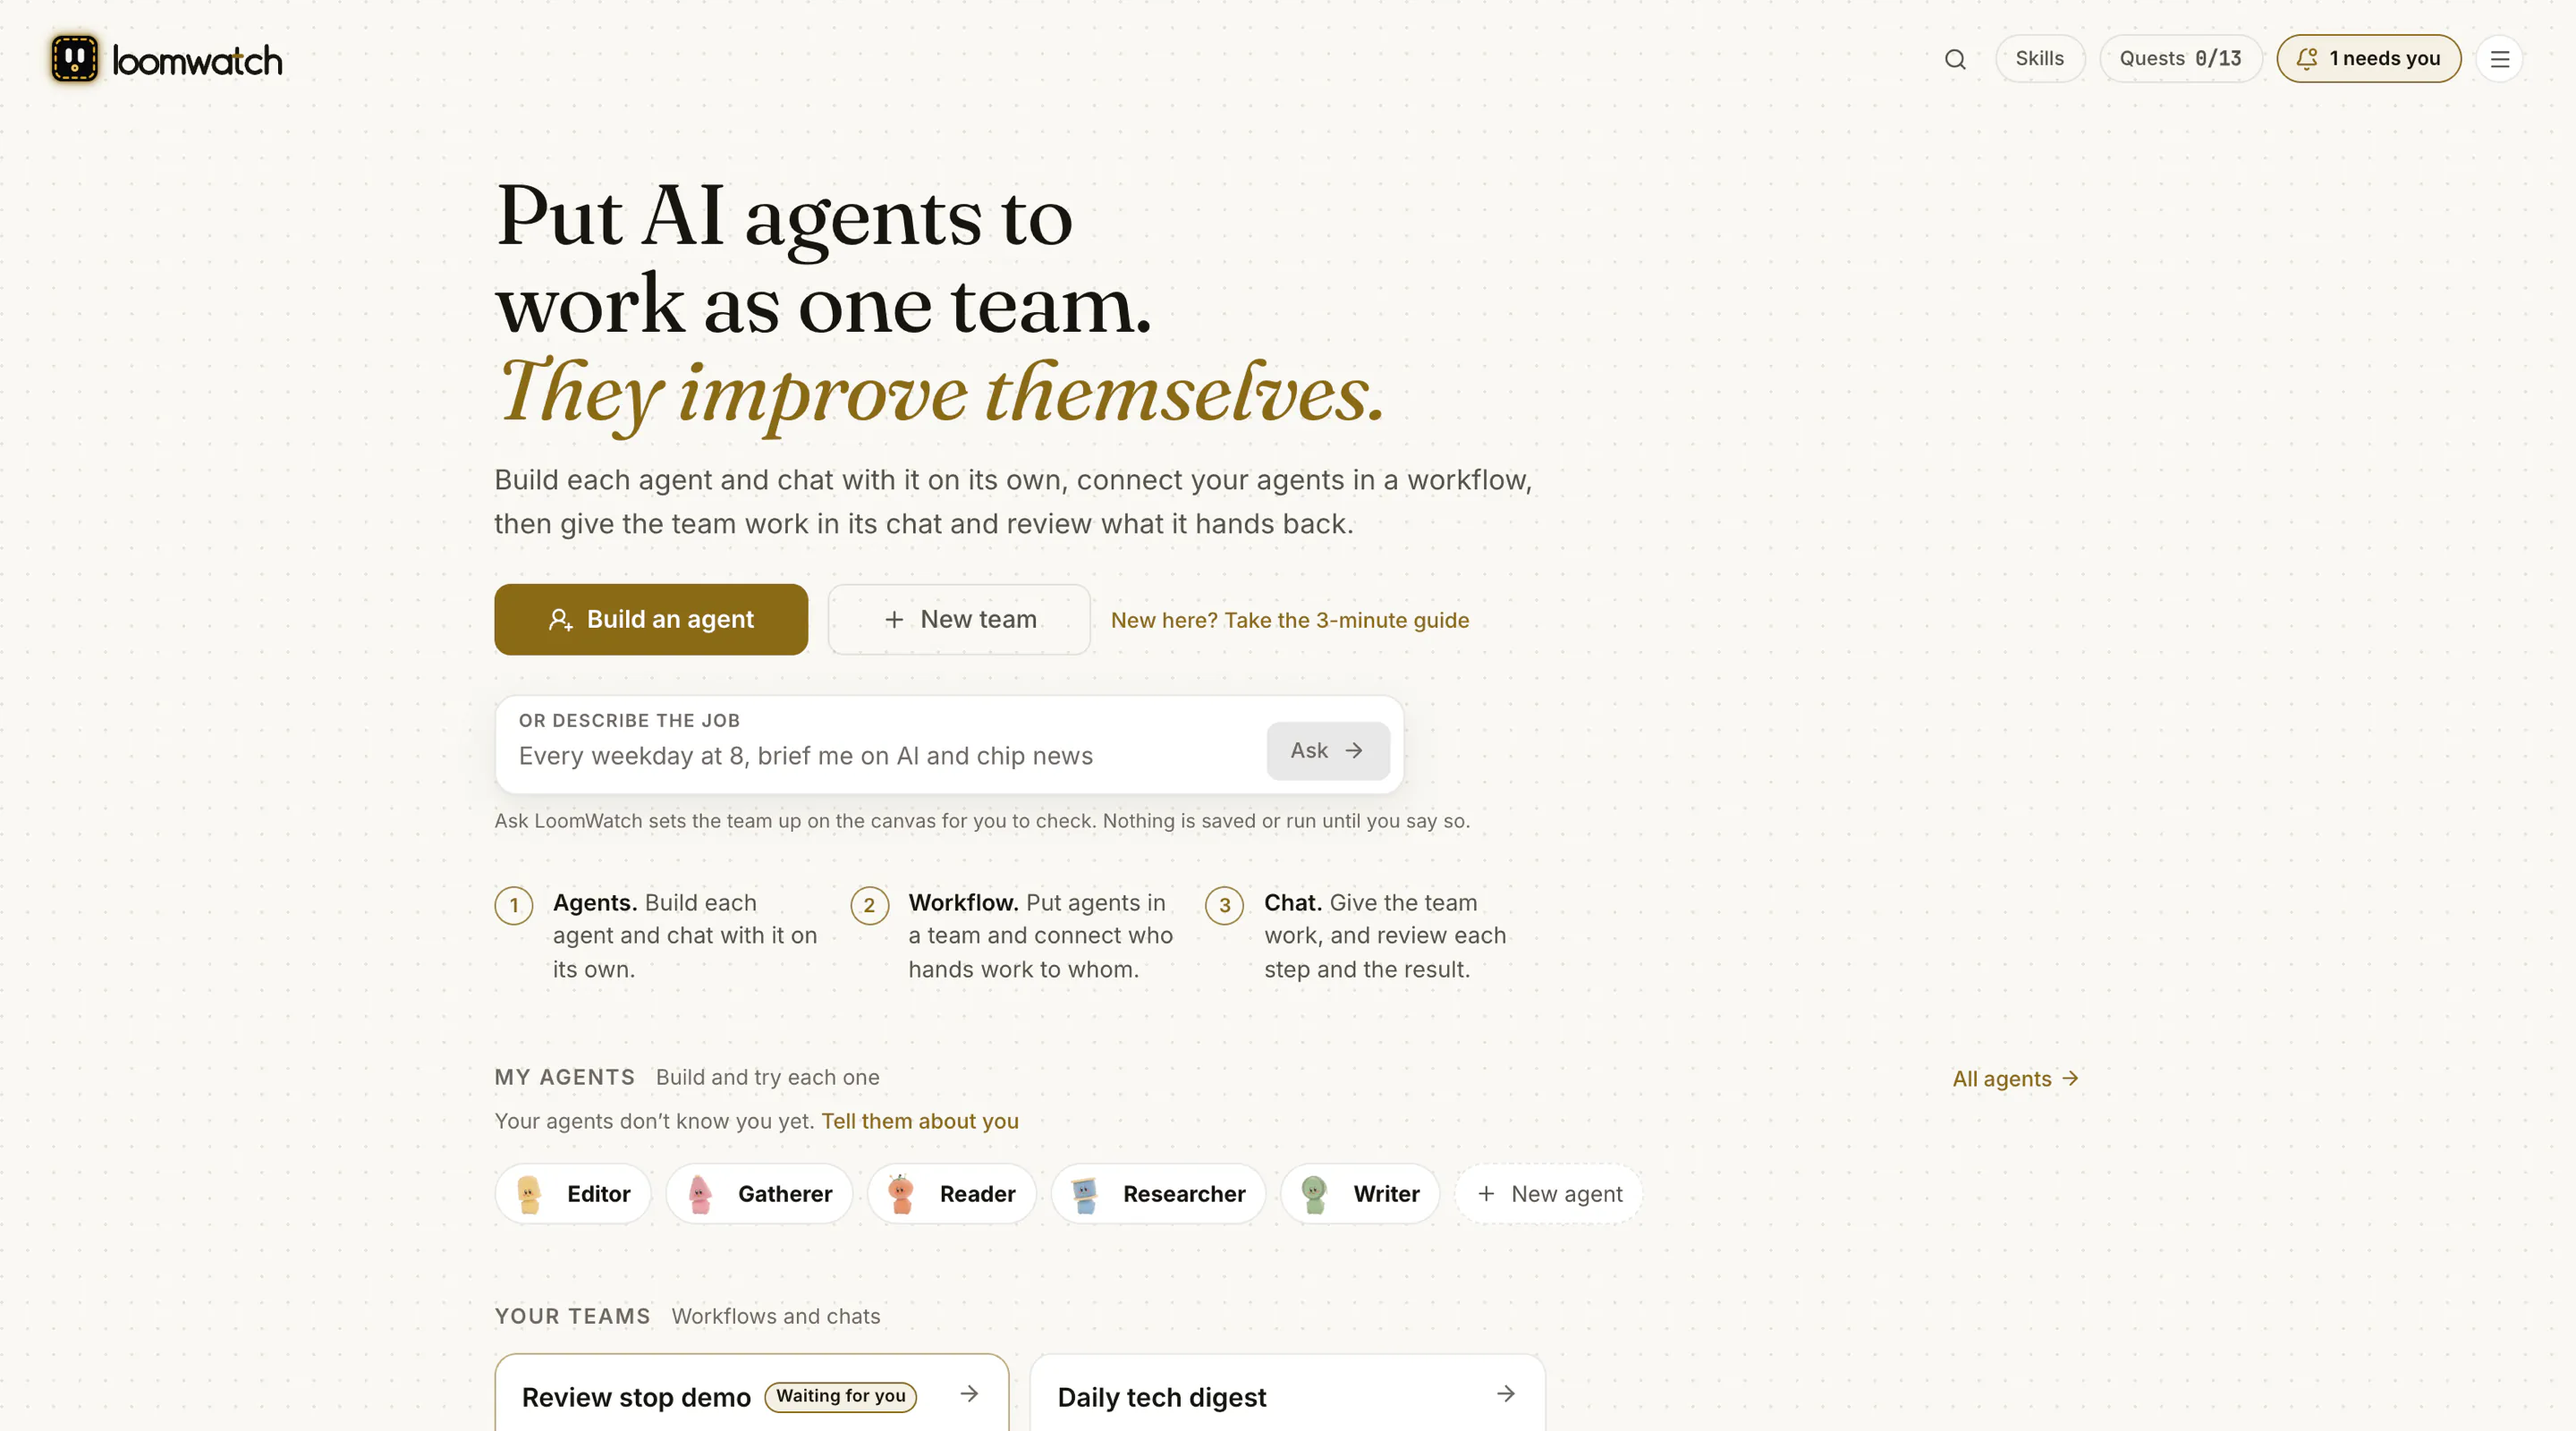
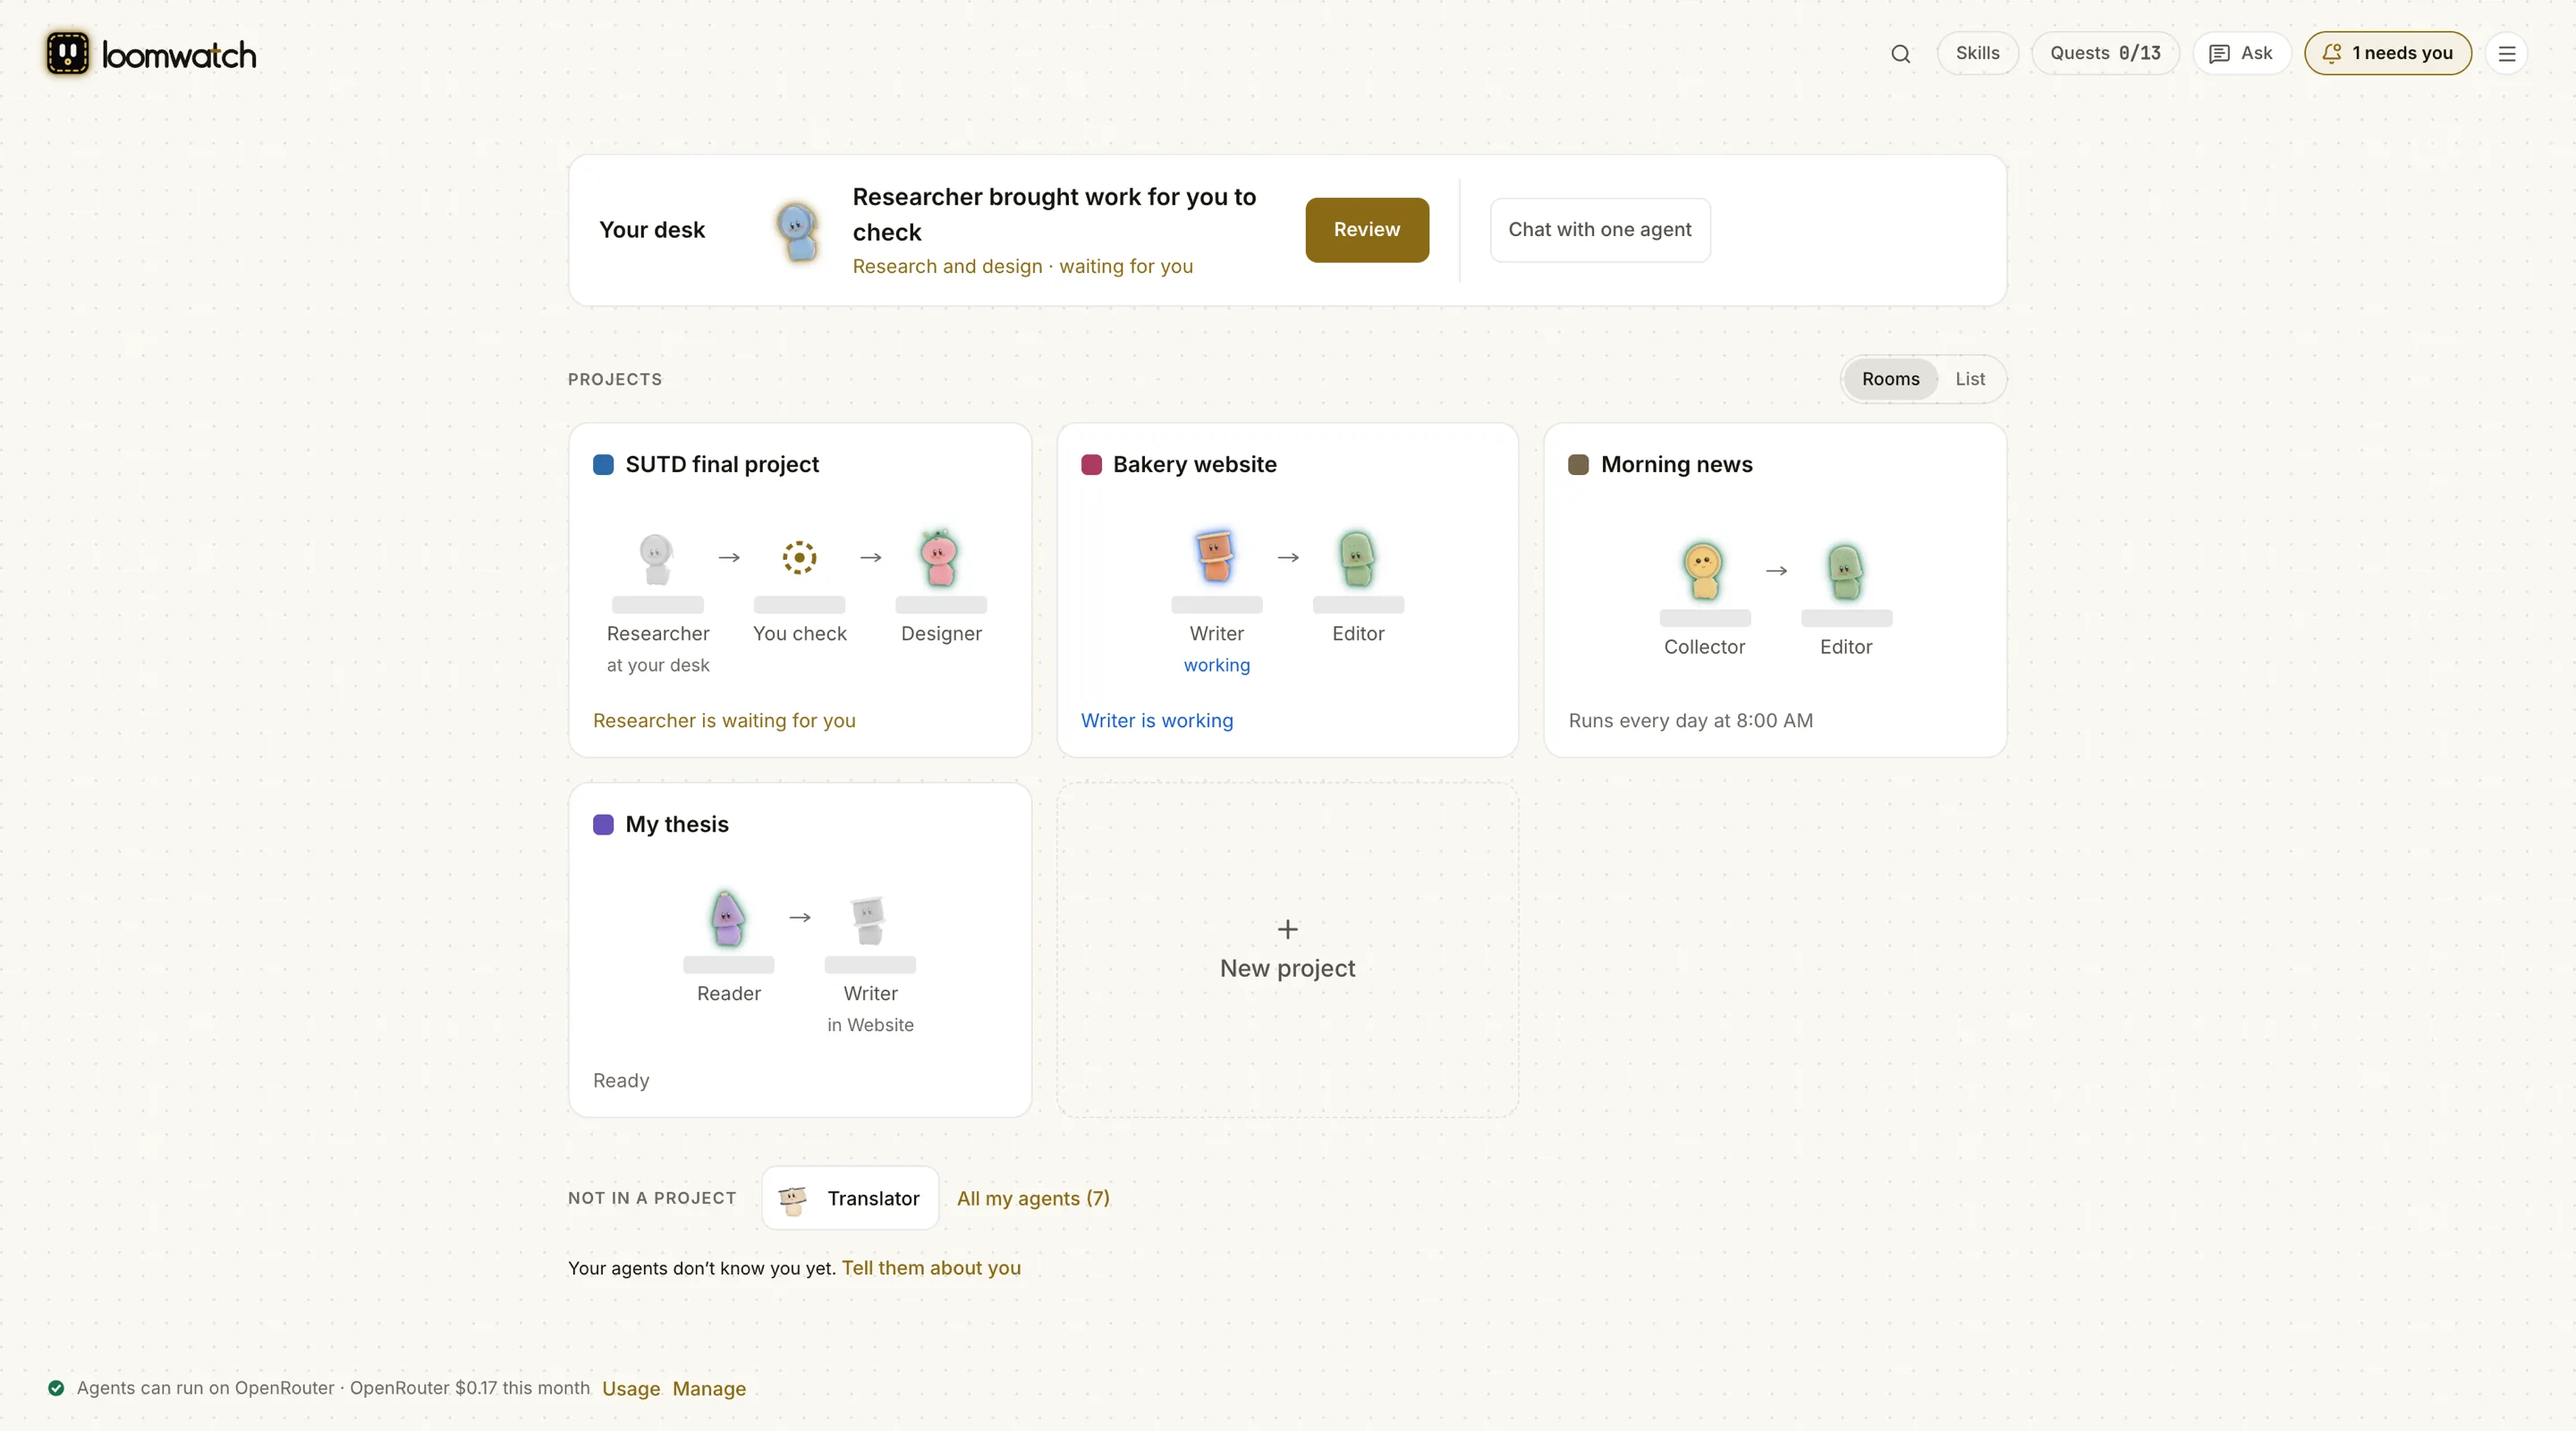
Publish the landing page from caf8274

diff --git a/main.js b/main.js
@@ -2706,7 +2706,7 @@
   window.addEventListener('resize', placeOsPill)
 
   const SCREENS = {
-    home: { w: 2880, h: 1600, alt: 'LoomWatch Home: the headline Put AI agents to work as one team, They improve themselves, a gold Build an agent button beside New team, a box to describe the job in plain words, the three steps Agents, Workflow and Chat, My agents as a row of your saved agents each with its little figure, and your teams as cards below.', cap: 'Home: start with an agent, then a team. Your agents sit in a row under My agents, each with its figure.' },
+    home: { w: 2880, h: 1600, alt: 'LoomWatch Home: first Your desk, where the Researcher brought work for you to check, with a gold Review button. Below, your projects as rooms, each with its team\u2019s agents at their desks in the order work moves: in SUTD final project the Researcher is drawn faint because it is at your desk, then the gold ring where you check; in Bakery website the Writer is working; Morning news runs every day at 8:00 AM; in My thesis the Writer is drawn faint because it is working in the Website team. Then a New project tile, and an agent in no project yet.', cap: 'Home: your desk first, with whoever waits for you, then a room for each project, with its agents at their desks.' },
     agents: { w: 2880, h: 1600, alt: "LoomWatch's agent workbench for Writer: a sentence saying Writer thinks with Claude Opus 5.5, has one skill and asks before it may act, a mint-green figure at its desk with labels for its keys, its skills, the model it thinks with, its job and its tray, and on the right the blocks that make it, starting with Name and Instructions with a check of what good instructions say.", cap: 'An agent on its workbench: the figure shows what it has, the blocks beside it change it, and the sentence on top says what it all adds up to.' },
     workflow: { w: 2880, h: 1600, alt: 'LoomWatch Workflow for a daily tech digest: the team as one sentence, Every day at 9:00 AM and whenever you ask, Gatherer collects what is needed, then Reader does its part, and finally Writer writes the answer, each with its figure; on the left your saved agents ready to add; on the canvas a schedule trigger at 9 AM wired to Gatherer, Reader and Writer, and the team response.', cap: 'Workflow: your agents wired in order, read back as one sentence, with your saved agents one click away on the left.' },
     chat: { w: 2880, h: 1600, alt: "LoomWatch Chat: you ask the team for a short getting-started guide. Under your message, Researcher's figure, 1 reply and Waiting for you, then a card with Researcher's handover and Approve. On the right, the Replies tab shows what Researcher handed over, with a Details tab next to it.", cap: "Chat: what needs you waits in the chat, the agents' replies open beside it, and every step is a tab away in Details." },

diff --git a/index.html b/index.html
@@ -207,6 +207,7 @@
       <dl class="fine">
         <div><dt>Or just describe it</dt><dd>Describe the job, and <b>Ask LoomWatch</b> proposes a team on the canvas. Nothing changes until you press Apply.</dd></div>
         <div><dt>Step by step, or with a lead</dt><dd>A pipeline runs its steps in order, with stops where you want them. Or a lead hands out work and asks its teammates questions.</dd></div>
+        <div><dt>In a project</dt><dd>Every team works in a project. What you write about it, its folders and its notes reach every agent in it.</dd></div>
       </dl>
     </div>
     <div class="ch-panel">
@@ -440,6 +441,8 @@
           <li><b>Stops where you decide</b><span>You review before the work goes on.</span></li>
           <li><b>Give each agent what it needs</b><span>Folders, files, skills and Notion pages.</span></li>
           <li><b>On a schedule</b><span>Runs by itself while LoomWatch is open.</span></li>
+          <li><b>Set up a project</b><span>Ask LoomWatch proposes it with its first team.</span></li>
+          <li><b>A room for each project</b><span>Home shows who works where, and who waits for you.</span></li>
         </ul>
       </section>
 
